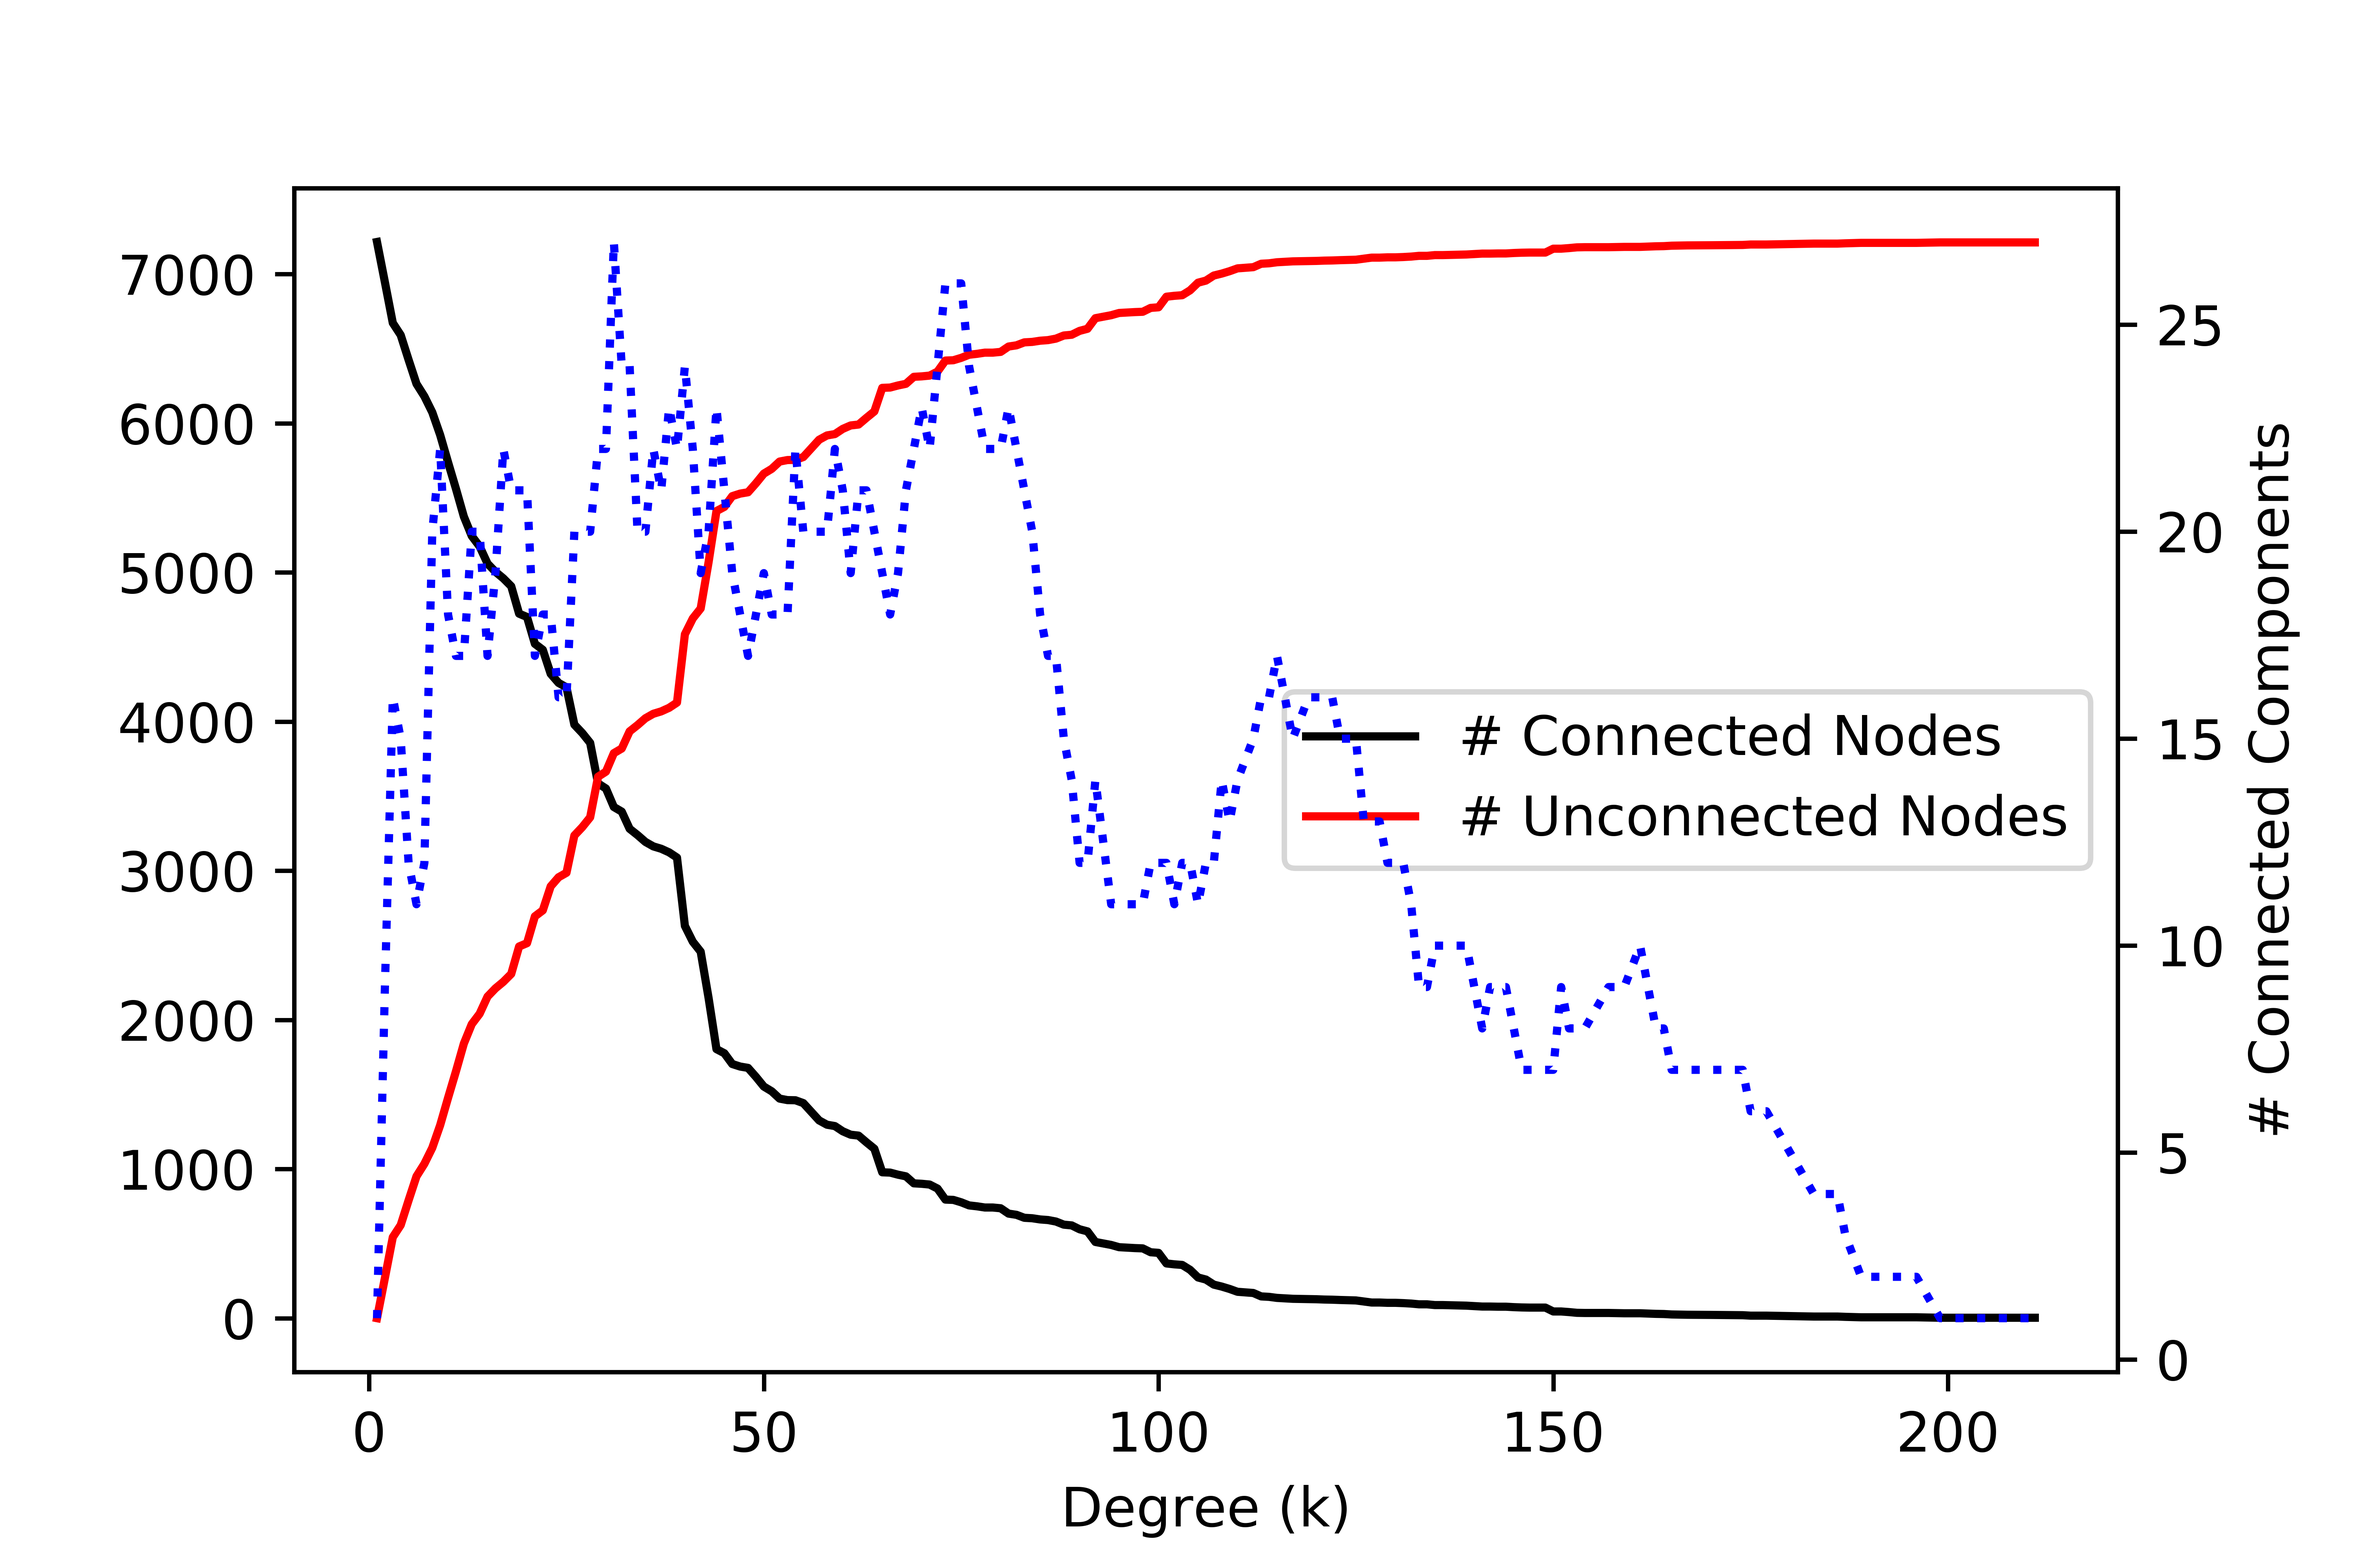
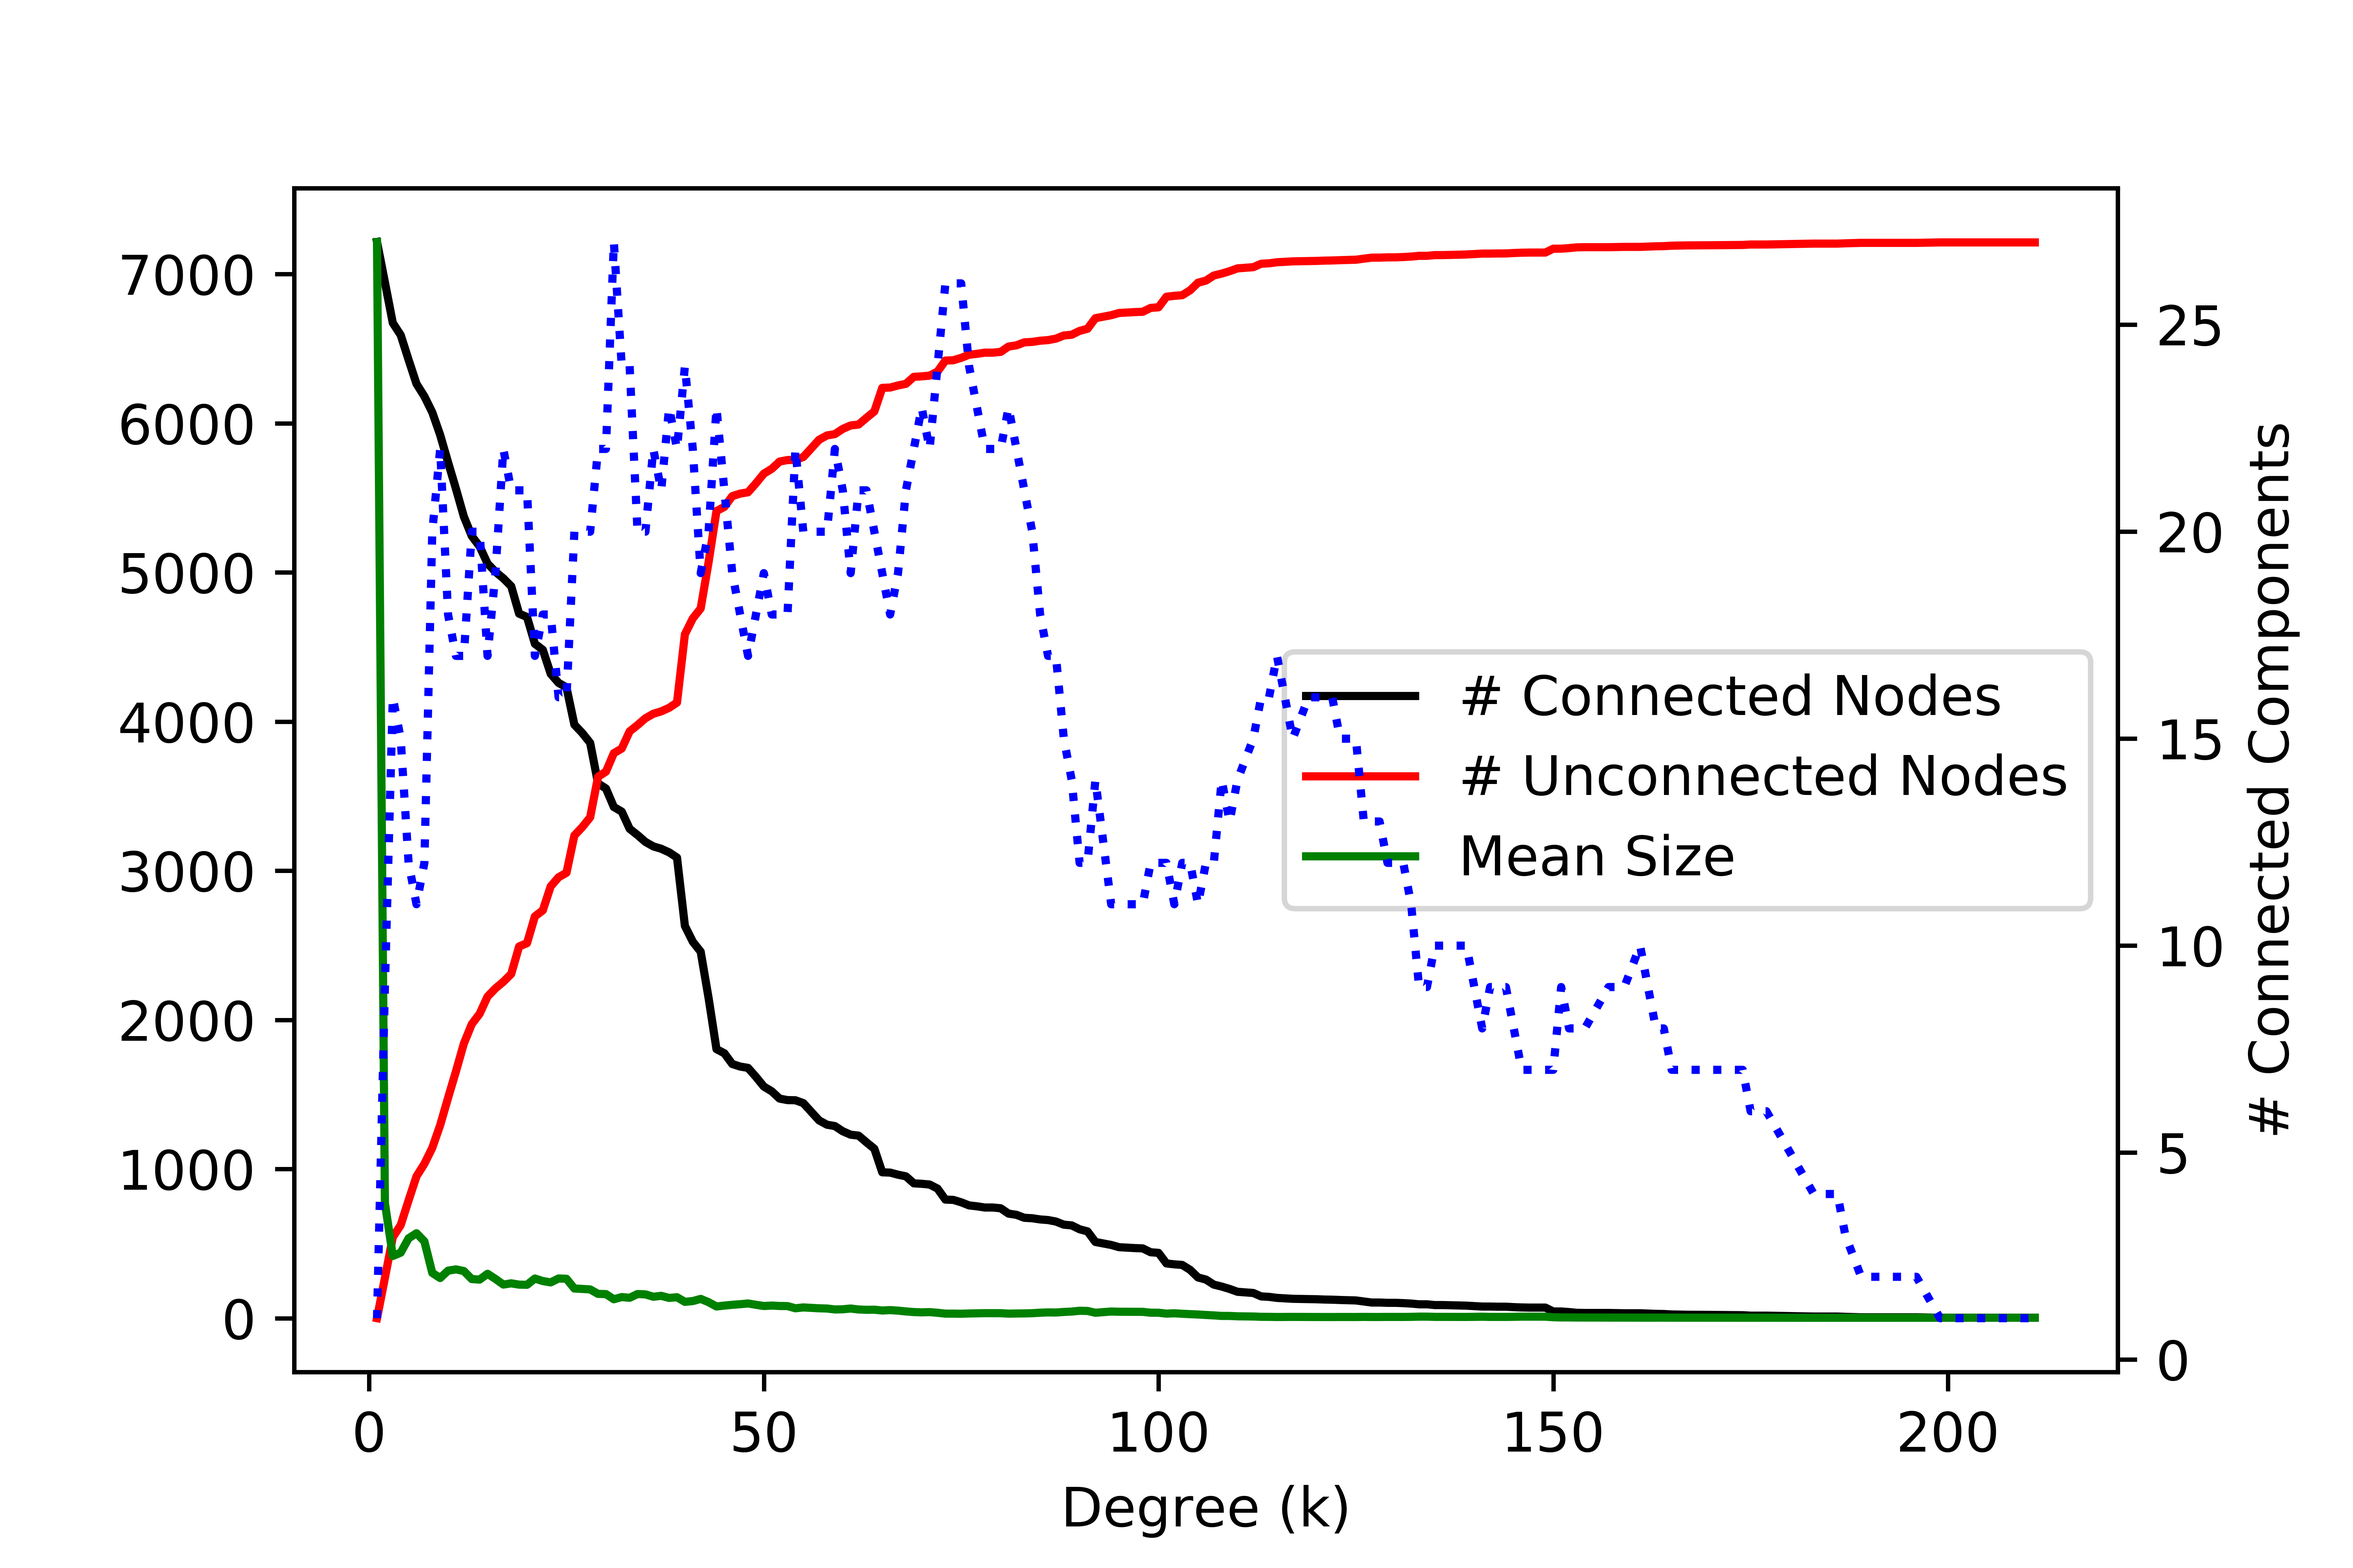
Update Figures

diff --git a/threshold.py b/threshold.py
@@ -78,12 +78,13 @@ def graphic_connected_components(type_proj, degree):
     ax1.set_xlabel('Degree (k)')
     ax1.plot(lstdegree, threshold_data['conn_nodes'], color = 'black', label = '# Connected Nodes')
     ax1.plot(lstdegree, threshold_data['unconn_nodes'], color = 'r', label = '# Unconnected Nodes')
+    ax1.plot(lstdegree, threshold_data['mean_size'], color = 'green', label = 'Mean Size')
     #ax1.tick_params(axis = 'y')
     plt.legend(loc='center right')
     ax2 = ax1.twinx()
     ax2.plot(lstdegree, threshold_data['conn_components'], color = 'blue', linestyle=':', label = '# Connected Components')
     ax2.set_ylabel('# Connected Components')
-    ax2.plot(lstdegree, threshold_data['mean_size'], color = 'green', linestyle=':', label = 'Mean Size')
+    
     
     name = "images/connected_components_"+str(type_proj)
     #plt.savefig(name + '.eps')
